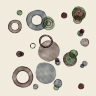
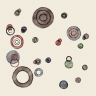
pools: widen the default band pitch to 5-10 rings on a big circle
The band count is what the mark reads as, and a handful of wide rings is
a different object from thirty fine ones: each band is now a ring of
colour in its own right, with its own wet edge and rim, instead of a line
in a woodcut. Pitch 0.0055 -> 0.022, which puts the top of the size
ladder at eight bands; TestBigCircleGetsFiveToTenBands holds it there.

Overlap comes down with it, 0.9 -> 0.4. The overlap is a fraction of the
pitch, so left alone every fat band would have swallowed its neighbours
and the seams that make the mark would have gone with them.

The pitch test needed rewriting rather than retuning. It compared band
counts between two radii, which was fine when rounding was negligible;
at five bands a disc has to come out whole, so quantisation dominates and
the ratio is 4.5 where the radii are 4x apart. It now asserts the
realised pitch against the nominal one within exactly that rounding
bound, which is the strongest thing that is true and is tightest where it
matters.

diff --git a/internal/sketch/pools/banded_test.go b/internal/sketch/pools/banded_test.go
@@ -73,29 +73,47 @@ func TestBandsOverlapTheirNeighbours(t *testing.T) {
 	}
 }
 
-// TestBandPitchIsResolutionIndependent guards the reason the pitch is a
-// width and not a count: the ring texture has to weigh the same on a large
-// mark as on a small one, so a mark twice the radius gets twice the rings
-// rather than rings twice as fat.
-func TestBandPitchIsResolutionIndependent(t *testing.T) {
+// TestBandPitchHoldsAcrossSizes guards the reason the pitch is a width and
+// not a count: the ring texture has to weigh the same on a large mark as on
+// a small one, so a mark twice the radius gets twice the rings rather than
+// rings twice as fat.
+//
+// The count is a rounded quotient, so the realised pitch cannot land on the
+// nominal one exactly — a disc has to come out whole. The bound below is
+// that rounding and nothing more, which is the strongest thing that is
+// actually true, and it is tightest where it matters: at a handful of wide
+// bands the quantisation is a quarter of a band, and at thirty fine ones it
+// vanishes.
+func TestBandPitchHoldsAcrossSizes(t *testing.T) {
 	s := New()
 	rng := testCtx(t, 1).RNG(streamLayout)
 	_, _, ramp := s.inks(byLuminance(testCtx(t, 1).Palette.Colors), rng)
 
-	small := s.planBands(rng, 0.05, ramp)
-	large := s.planBands(rng, 0.20, ramp)
-	if ratio := float64(len(large.mid)) / float64(len(small.mid)); math.Abs(ratio-4) > 0.35 {
-		t.Errorf("a 4x radius gave %.2fx the bands, want ~4x — the pitch is not fixed", ratio)
-	}
-	mean := func(w []float64) float64 {
-		t := 0.0
-		for _, v := range w {
-			t += v
+	for _, r := range []float64{0.05, 0.09, 0.15, 0.22, 0.4} {
+		p := s.planBands(rng, r, ramp)
+		n := len(p.mid)
+		step := p.mid[0] - p.mid[1] // consecutive centres are one pitch apart
+		if bound := 0.5 * s.BandWidth / float64(n); math.Abs(step-s.BandWidth) > bound+1e-9 {
+			t.Errorf("radius %v: %d bands at pitch %.5f, want %.5f ±%.5f",
+				r, n, step, s.BandWidth, bound)
 		}
-		return t / float64(len(w))
 	}
-	if a, b := mean(small.width), mean(large.width); math.Abs(a-b)/b > 0.2 {
-		t.Errorf("band widths differ by size: %v small vs %v large", a, b)
+}
+
+// TestBigCircleGetsFiveToTenBands pins the pitch against the size ladder.
+// The band count is what the mark reads as: a handful of wide rings is a
+// set of concentric glazes, thirty fine ones is a woodcut. The top of the
+// ladder is where the choice shows, so that is where it is measured.
+func TestBigCircleGetsFiveToTenBands(t *testing.T) {
+	s := New()
+	radii, _ := s.ladder()
+	big := radii[len(radii)-1]
+	rng := testCtx(t, 1).RNG(streamLayout)
+	_, _, ramp := s.inks(byLuminance(testCtx(t, 1).Palette.Colors), rng)
+
+	n := len(s.planBands(rng, big, ramp).mid)
+	if n < 5 || n > 10 {
+		t.Errorf("the largest circle (r=%v) gets %d bands, want 5-10 at pitch %v", big, n, s.BandWidth)
 	}
 }
 

diff --git a/internal/sketch/pools/options.go b/internal/sketch/pools/options.go
@@ -41,8 +41,8 @@ func (s *Sketch) Flags(fs *flag.FlagSet) {
 	fs.Float64Var(&s.opts.open, "open", -1, "share painted as annuli rather than discs; default 0.28")
 	fs.Float64Var(&s.opts.glaze, "glaze", -1, "share carrying a second pigment on top; default 0.16")
 	fs.Float64Var(&s.opts.banded, "banded", -1, "share of circles filled with fine concentric rings; default 0.3")
-	fs.Float64Var(&s.opts.bandWidth, "band-width", -1, "ring pitch of a banded circle, canvas units; default 0.0065")
-	fs.Float64Var(&s.opts.bandOverlap, "band-overlap", -1, "how far neighbouring rings cross, x pitch; default 0.55")
+	fs.Float64Var(&s.opts.bandWidth, "band-width", -1, "ring pitch of a banded circle, canvas units; default 0.022")
+	fs.Float64Var(&s.opts.bandOverlap, "band-overlap", -1, "how far neighbouring rings cross, x pitch; default 0.4")
 	fs.Float64Var(&s.opts.alpha, "alpha", -1, "pool strength; below 1 keeps crossings readable; default 0.62")
 	fs.Float64Var(&s.opts.margin, "margin", -1, "clear paper at the edge; default 0.06")
 }

diff --git a/internal/sketch/pools/pools.go b/internal/sketch/pools/pools.go
@@ -72,8 +72,8 @@ func New() *Sketch {
 		Open:        0.28,
 		Glaze:       0.16,
 		Banded:      0.3,
-		BandWidth:   0.0055,
-		BandOverlap: 0.9,
+		BandWidth:   0.022,
+		BandOverlap: 0.4,
 		Alpha:       0.74,
 		Pigments:    4,
 		Margin:      0.06,

diff --git a/docs/sketches/008-pools.md b/docs/sketches/008-pools.md
@@ -61,8 +61,8 @@ a believable third colour wherever two discs cross.
 | `Open` | 0.28 | share painted as annuli rather than discs |
 | `Glaze` | 0.16 | share carrying a second pigment on top |
 | `Banded` | 0.3 | share filled with fine concentric rings |
-| `BandWidth` | 0.0055 | ring pitch of a banded circle, canvas units |
-| `BandOverlap` | 0.9 | how far neighbouring rings cross, ×pitch |
+| `BandWidth` | 0.022 | ring pitch of a banded circle, canvas units |
+| `BandOverlap` | 0.4 | how far neighbouring rings cross, ×pitch |
 | `Alpha` | 0.74 | pool strength; below 1 so crossings stay readable |
 | `Pigments` | 4 | palette colours in play |
 | `Margin` | 0.06 | clear paper at the edge |
@@ -93,7 +93,15 @@ doubling back.
 
 The pitch is a **width, not a count**, so a mark twice the radius gets twice
 the rings rather than rings twice as fat, and the ring texture weighs the
-same across the whole size ladder.
+same across the whole size ladder. At the default pitch the largest circle
+comes out with **5–10 bands** — wide enough that each is a ring of colour in
+its own right, with its own wet edge and rim, rather than a line in a
+woodcut. `TestBigCircleGetsFiveToTenBands` holds the pitch to that against
+the top of the size ladder, since the count is what the mark reads as.
+
+The two dials are worth knowing: `--band-width 0.008` gives a fine grain of
+thirty-odd rings, `0.03` a bold half-dozen; `--band-overlap 0.2` leaves the
+seams open, `0.9` merges them into a graduated fill.
 
 Prototype — a handful of big ones, some crossing:
 
